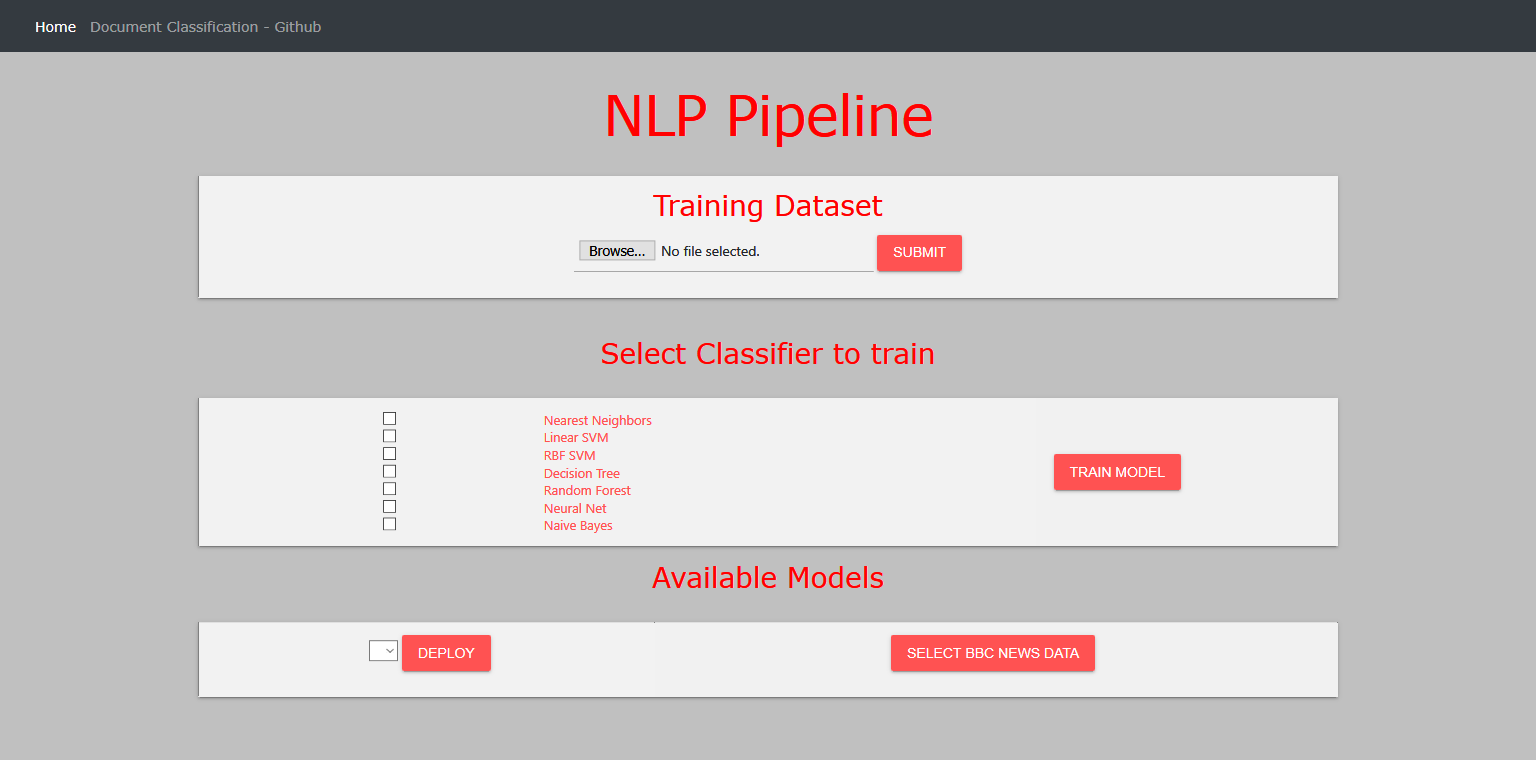
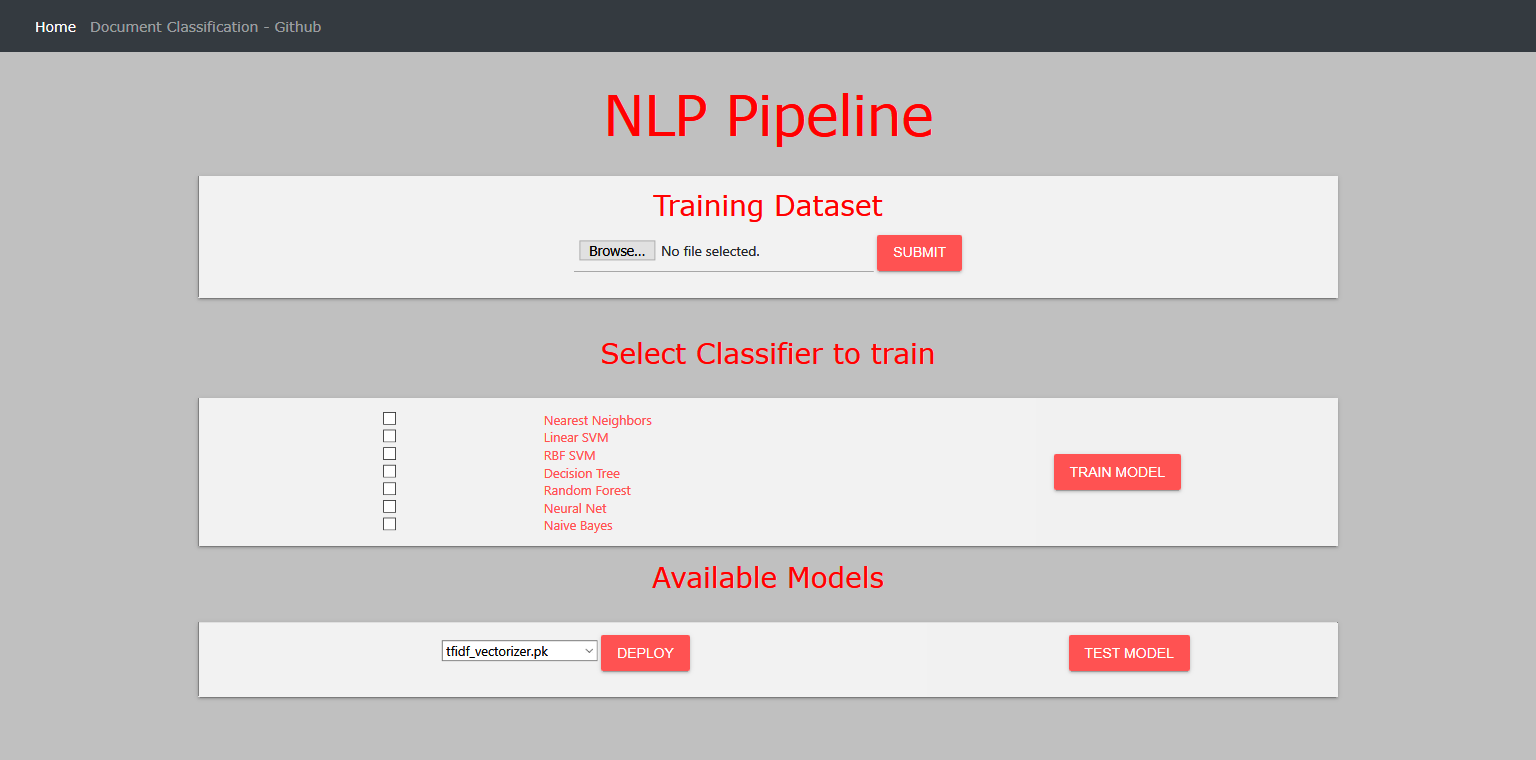
1. Add test functionality for the app 2. Modify html files

Changed region(s): [[0.5625, 0.8171, 0.7812, 0.9079], [0.25, 0.8171, 0.4688, 0.9079]]

diff --git a/templates/results.html b/templates/results.html
@@ -7,15 +7,14 @@
           integrity="sha384-Zug+QiDoJOrZ5t4lssLdxGhVrurbmBWopoEl+M6BdEfwnCJZtKxi1KgxUyJq13dy" rel="stylesheet">
     <link href="{{ url_for('static',filename='styles/main.css') }}" rel="stylesheet" type="text/css">
     <title>Results</title>
-    <link href="https://financialit.net/sites/default/files/dbs-bank.png" rel="shortcut icon" type="image/png"/>
 </head>
 <body>
 <nav class="navbar navbar-expand-lg navbar-dark bg-dark">
     <a class="navbar-brand" href="#">
-        <img alt="DBS Logo"
-             class="d-inline-block align-top" height="33"
-             src="https://upload.wikimedia.org/wikipedia/en/thumb/1/18/DBS_Bank_Logo.svg/320px-DBS_Bank_Logo.svg.png"
-             width="80">
+        <!--        <img alt="think of Logo"-->
+        <!--             class="d-inline-block align-top" height="33"-->
+        <!--             src="https://url for logo.png"-->
+        <!--             width="80">-->
     </a>
     <div class="collapse navbar-collapse" id="navbarSupportedContent">
         <ul class="navbar-nav mr-auto">
@@ -25,15 +24,9 @@
                 </a>
             </li>
             <li class="nav-item">
-                <a class="nav-link"
-                   href="https://gitlab.dev.apps.cs.sgp.dbs.com/kirankunapuli/sentiment-analysis-framework"
-                   target="_blank">Sentiment
-                    Analysis - Gitlab</a>
-            </li>
-            <li class="nav-item">
-                <a class="nav-link" href="https://gitlab.dev.apps.cs.sgp.dbs.com/aditya1/Document_Classification"
+                <a class="nav-link" href="https://github.com/aditya00kumar/document-classification"
                    target="_blank">Document Classification
-                    - Gitlab</a>
+                    - Github</a>
             </li>
         </ul>
     </div>

diff --git a/templates/user_input.html b/templates/user_input.html
@@ -101,7 +101,7 @@
     </style>
     <link crossorigin="anonymous" href="https://maxcdn.bootstrapcdn.com/bootstrap/4.0.0-beta.3/css/bootstrap.min.css"
           integrity="sha384-Zug+QiDoJOrZ5t4lssLdxGhVrurbmBWopoEl+M6BdEfwnCJZtKxi1KgxUyJq13dy" rel="stylesheet">
-    <title>BBC News Data</title>
+    <title>Test Data</title>
 
 </head>
 <body>
@@ -130,7 +130,7 @@
             </div>
             <div class="col-75">
         <textarea id="text_input" name="text_input"
-                  placeholder="Paste news related to sports, business, entertainment, politics and tech to check the accuracy of naive bayes classifier :)"
+                  placeholder="Paste text here to classify it into given categories of training data:)"
                   style="height:200px"></textarea>
             </div>
         </div>

diff --git a/templates/index.html b/templates/index.html
@@ -138,9 +138,9 @@
                 </td>
                 <td class="mdl-data-table__cell--non-numeric">
                     <!--<p>BBC News data set</p>-->
-                    <form action="/bbc_data" method="post">
+                    <form action="/test" method="post">
                         <button class="mdl-button mdl-js-button mdl-button--raised mdl-js-ripple-effect mdl-button--accent">
-                            Select BBC News Data
+                            Test Model
                         </button>
                     </form>
                 </td>

diff --git a/app.py b/app.py
@@ -1,7 +1,8 @@
 """
 Author: Aditya Kumar
 Email: aditya00kumar@gmail.com
-Description:
+Description: App file for flask module contains functionality of training the classifier by just uploading the
+training file in user interface and selecting the proper parameters.
 Project: document_classification
 Last Modified: 1/8/18 3:10 PM
 """
@@ -51,7 +52,7 @@ def display_index():
     return render_template('index.html', files=files, classifiers=eval(config['classifiers']))
 
 
-def read_process_data(path):
+def read_process_data(path, files_path):
     data = pd.read_csv(path)
     column_name = data.columns[0]
     # print(column_name)
@@ -67,18 +68,21 @@ def read_process_data(path):
     train_x, test_x, train_y, test_y = train_test_split(data.Document, data.Category, test_size=0.20)
     tfidf_transformer = TfidfVectorizer(min_df=1)
     train_vectors = tfidf_transformer.fit_transform(train_x)
+    vectorizer_path = os.path.join(files_path, 'tfidf_vectorizer.pk')
+    joblib.dump(tfidf_transformer, vectorizer_path)
     return train_vectors, train_y
 
 
 @app.route('/train', methods=['POST'])
 def train():
     clfs = request.form.getlist('classifier_checked')
+    print('classifier_checked', clfs)
     session_id = request.cookies['session']
     files_path = os.path.join(app.config['UPLOAD_FOLDER'], session_id)
     # todo: check for csv files only
     csv_file = os.listdir(files_path)[0]
     print(files_path + '/' + csv_file)
-    train_vectors, train_y = read_process_data(files_path + '/' + csv_file)
+    train_vectors, train_y = read_process_data(files_path + '/' + csv_file, files_path)
     path_to_source = Path(os.getcwd())
     model_path = os.path.join(str(Path(path_to_source)), 'Uploads')
 
@@ -86,6 +90,7 @@ def train():
 
     for clf in clfs:
         model = train_model(train_vectors, train_y, clf)
+        print(model)
         if model:
             joblib.dump(model, Path(Path(model_path), session_id, clf.replace(" ", "_") + '.pkl'))
             print('done saving pkl')
@@ -95,7 +100,7 @@ def train():
     return render_template('index.html', files=files, classifiers=eval(config['classifiers']))
 
 
-@app.route('/bbc_data', methods=['POST'])
+@app.route('/test', methods=['POST'])
 def bbc_data():
     return render_template('user_input.html')
 
@@ -103,12 +108,12 @@ def bbc_data():
 @app.route('/upload', methods=['GET', 'POST'])
 def upload_file():
     session_id = request.cookies['session']
-    files = os.listdir(os.path.join(app.config['UPLOAD_FOLDER'], session_id))
     if request.method == 'POST':
         file = request.files['csv']
         print(os.path.join(app.config['UPLOAD_FOLDER'], file.filename))
         file.save(os.path.join(app.config['UPLOAD_FOLDER'], session_id, file.filename))
-        return render_template('index.html', files=files, classifiers=eval(config['classifiers']))
+    files = os.listdir(os.path.join(app.config['UPLOAD_FOLDER'], session_id))
+    return render_template('index.html', files=files, classifiers=eval(config['classifiers']))
 
 
 @app.route('/', methods=['GET', 'POST'])
@@ -135,6 +140,37 @@ def check():
     print(request.form['file_name'])
     session_id = request.cookies['session']
     return session_id
+
+
+@app.route('/submit', methods=['POST'])
+def submit():
+    if request.form['text_input'] == "" or len(request.form['text_input']) < 10:
+        return "Please provide input large enough, Classifier can understand :)"
+    else:
+        # todo: change column name to be dynamically taken from training file
+        test_data = pd.DataFrame([request.form['text_input']], columns=['Document'])
+        session_id = request.cookies['session']
+        path = os.path.join(app.config['UPLOAD_FOLDER'], session_id)
+        trained_classifier = [i for i in os.listdir(path) if '.pkl' in i]
+        vectorizer = os.path.join(path, 'tfidf_vectorizer.pk')
+        tfidf_transformer = joblib.load(vectorizer)
+        pre_processor = PreProcess(test_data, column_name='Document')
+        test_data = pre_processor.clean_html()
+        test_data = pre_processor.remove_non_ascii()
+        test_data = pre_processor.remove_spaces()
+        test_data = pre_processor.remove_punctuation()
+        test_data = pre_processor.stemming()
+        test_data = pre_processor.lemmatization()
+        test_data = pre_processor.stop_words()
+        test_data1 = tfidf_transformer.transform(test_data.Document)
+        result = {}
+        for clf in trained_classifier:
+            model = joblib.load(os.path.join(path, clf))
+            print(clf, model.predict(test_data1)[0])
+            classifier_name = clf.split('/')[-1].split('.')[0]
+            result[classifier_name] = model.predict(test_data1)[0]
+            print(result)
+        return render_template('results.html', result=result)
 
 
 if __name__ == '__main__':

diff --git a/ml_models.py b/ml_models.py
@@ -34,10 +34,8 @@ def train_model(train_vectors, train_target, model_name):
     :param model_name: name of model defined in tox.ini to be trained on data
     :return: trained model
     """
-    print('model_name: ', model_name)
-    model = None
+    # print('model_name: ', model_name)
     for name, model in zip(names, classifiers):
-        # print(name, model)
         if name in model_name:
             model.fit(train_vectors, train_target)
-    return model
+            return model

diff --git a/README.md b/README.md
@@ -18,10 +18,10 @@ reflected in Heroku app in real time hosted at https://nlp-pipe.herokuapp.com/.
 ![Screenshot](static/Screenshots/NLP.png "Main Page")
 1. Upload User input in csv file having two columns namely document and category
 2. Feature Engineering
-	- Removing english stop words i.e. sklearn stopwords
-	- Stemming and lemmatization
-	- TF-IDF
-	- Word2Vec
+	- [X] Removing english stop words i.e. sklearn stopwords
+	- [X] Stemming and lemmatization
+	- [X] TF-IDF
+	- [] Word2Vec
 3. Model Building using default params
 	- Naive-Bayes
 	- SVM
@@ -31,7 +31,9 @@ reflected in Heroku app in real time hosted at https://nlp-pipe.herokuapp.com/.
     - Decision Tree
     - Random Forest
     - Neural Net
-4. Result of each model.
+    ** Training all models (even single model sometimes) takes more than 30 seconds for large dataset. Free version
+     of Heroku instance doesn't support that. If you really want to test the app you can host it on AWS or mail me.
+4. Test the result of models by providing text input.
 5. Deployment of each model as an API.
 
 ## Running on AWS
@@ -51,6 +53,8 @@ reflected in Heroku app in real time hosted at https://nlp-pipe.herokuapp.com/.
 
 ##  Task List
   - Make an api for pickle files to be consumed.
+  - Deployment of each model as an API and provide an end point for user.
+  - Make trained model files downloadable to user.
 
 ### Contact:
 You are welcome to contribute to the project, please send a pull request with proper feature description.
